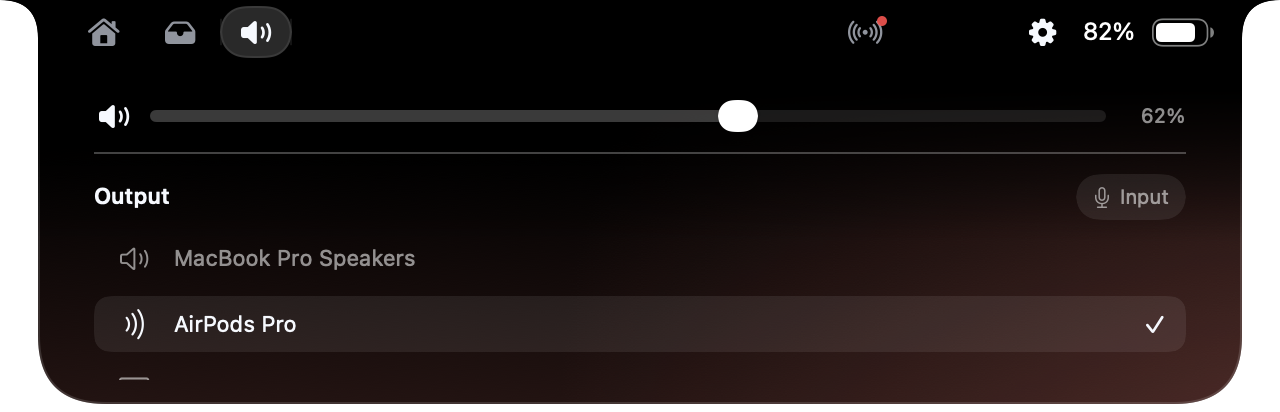
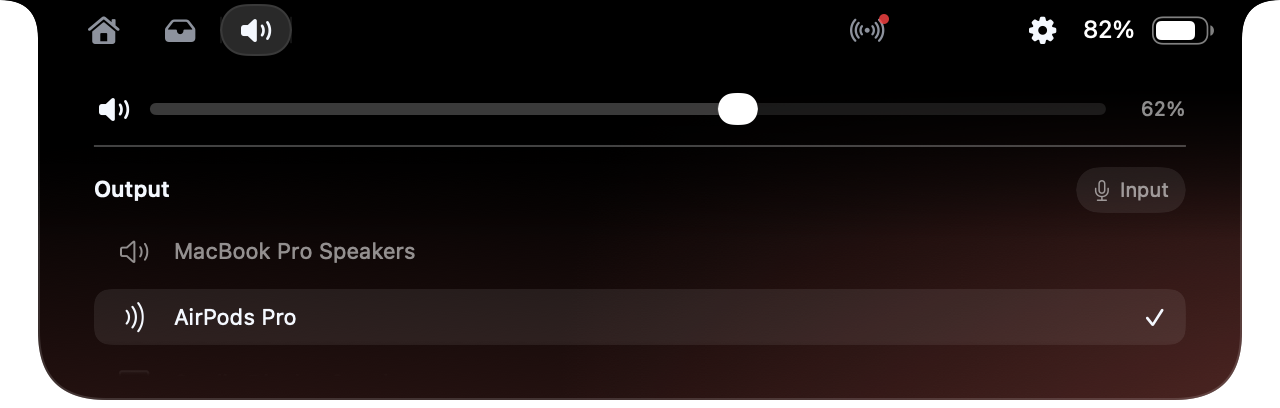
Resize the notch into the tabs section too
The notch's height now carries on from the last feature into the tab
captures as it moves into the Tabs Mac, and between the tab captures as
the selection steps along and the row turns into a column. The rim sits
over the tab captures so a cut-off one keeps its edge. Retake the audio
capture, whose list now fades out at the bottom.

diff --git a/components/landing/NotchStory.tsx b/components/landing/NotchStory.tsx
@@ -25,7 +25,7 @@ const items = [
   { id: "colour", h: 478, label: "Colour picker", src: "open-colour-picker.png", hue: 20, body: "The colour picker widget: pick off the screen, check contrast, copy.", alt: "The colour picker: a shade square, a hue slider, contrast grades on white and black, and HEX, RGB and HSL values" },
   { id: "builds", h: 468, label: "Builds", src: "open-builds.png", hue: 250, body: "The Builds widget: did the pipeline pass on GitHub or GitLab?", alt: "Builds: GitHub and GitLab runs, one running and one failed, with All, GitHub, GitLab and Local filters" },
   { id: "weather", h: 468, label: "Weather", src: "open-weather.png", hue: 205, body: "Now, and the next few hours.", alt: "The weather tab: temperature, conditions and an hourly forecast" },
-  { id: "audio", h: 412, label: "Audio", src: "open-audio.png", hue: 300, body: "Volume, the output device and the microphone, in one place.", alt: "The audio tab: volume, output devices and input" },
+  { id: "audio", h: 408, label: "Audio", src: "open-audio.png", hue: 300, body: "Volume, the output device and the microphone, in one place.", alt: "The audio tab: volume, output devices and input" },
 ] as const;
 
 const N = items.length;
@@ -86,6 +86,13 @@ const ROW_TABS = 4;
 const COL_TOP = 178;
 const COL_BOTTOM = 468;
 const tabBases = ["home", "shelf", "clipboard", "widgets"] as const;
+/* Heights of the tab captures: the four bases, then the vertical one. */
+const TAB_H = [483, 468, 468, 468, 483] as const;
+const tabsHeight = (k: number, turn: number) => {
+  const i = Math.min(3, Math.floor(k));
+  const row = lerp(TAB_H[i], TAB_H[Math.min(3, i + 1)], clamp(k - i));
+  return lerp(row, TAB_H[4], turn);
+};
 
 /* Stretches of scroll, in window heights. */
 const SEG = { intro: 0.9, wheel: (N - 1) * 0.34, hold: 0.25, move: 0.6, tabs: 0.9, turn: 0.5, climb: 0.7, rest: 0.15 };
@@ -166,6 +173,7 @@ export default function NotchStory() {
   const body = useRef<HTMLDivElement>(null);
   const rim = useRef<HTMLDivElement>(null);
   const shots = useRef<(HTMLImageElement | null)[]>([]);
+  const tabShots = useRef<(HTMLImageElement | null)[]>([]);
   const slots = useRef<Record<string, Rect>>({});
   const base = useRef(640);
   const pinned = useRef(false);
@@ -287,8 +295,9 @@ export default function NotchStory() {
     // Once the tabs are down the side, the next scroll turns the column like a wheel.
     const climb = ease(seg(t, "climb")) * (tabIcons.length - ROW_TABS);
 
-    // The notch's height follows the scroll from one feature's height to the next.
-    const dh = heightAt(p);
+    // The notch's height follows the scroll from one feature's height to the next,
+    // then into the tabs' captures, and from tab to tab.
+    const dh = t < AT.move ? heightAt(p) : lerp(items[N - 1].h, tabsHeight(k, turn), ease(move));
 
     // The notch: hero slot → (a drop) → feature slot → tabs slot.
     const { hero, feat, tabs } = slots.current;
@@ -318,11 +327,15 @@ export default function NotchStory() {
       if (ink.current) ink.current.style.opacity = String(clamp(ease(shut) * 1.7));
       if (goo.current) goo.current.style.visibility = dripping ? "visible" : "hidden";
     }
-    const near = items[clamp(Math.round(p), 0, N - 1)].h;
+    // The height of the capture that's showing, which the notch settles on.
+    const near =
+      t < AT.move + SEG.move * 0.5 ? items[clamp(Math.round(p), 0, N - 1)].h : TAB_H[turn > 0.5 ? 4 : clamp(Math.round(k), 0, 3)];
     drop.current?.style.setProperty("--dh", dh.toFixed(2));
-    shots.current.forEach((img, i) => {
-      if (img) img.style.clipPath = items[i].h > dh + 0.5 ? cutPath(base.current / IW, dh) : "";
-    });
+    const cut = (img: HTMLImageElement | null, h: number) => {
+      if (img) img.style.clipPath = h > dh + 0.5 ? cutPath(base.current / IW, dh) : "";
+    };
+    shots.current.forEach((img, i) => cut(img, items[i].h));
+    tabShots.current.forEach((img, i) => cut(img, TAB_H[i]));
 
     const vis = {
       hero: 1 - clamp(intro / 0.55),
@@ -337,9 +350,11 @@ export default function NotchStory() {
       el.style.visibility = v < 0.01 ? "hidden" : "visible";
       el.style.pointerEvents = v > 0.5 ? "auto" : "none";
     }
-    // The body under a shorter capture, and the rim along a cut-off taller one: only while resizing.
-    if (body.current) body.current.style.opacity = String(vis.feat);
-    if (rim.current) rim.current.style.opacity = String(vis.feat * clamp(Math.abs(dh - near) / 12));
+    // The body under a shorter capture, and the rim along a cut-off taller one: from the features
+    // on (the hero's notch is the one capture), the rim only while resizing.
+    const filled = clamp((intro - 0.45) / 0.55);
+    if (body.current) body.current.style.opacity = String(filled);
+    if (rim.current) rim.current.style.opacity = String(filled * clamp(Math.abs(dh - near) / 12));
     if (layers.current.hero) layers.current.hero.style.transform = `translate3d(0, ${(vis.hero - 1) * 48}px, 0)`;
     // The strip: a straight row of cards sliding sideways, the current one in the middle.
     if (track.current) track.current.style.transform = `translate3d(${(1 - vis.feat) * 48 - p * stride.current}px, 0, 0)`;
@@ -658,10 +673,21 @@ export default function NotchStory() {
                   loading={i < 2 ? "eager" : "lazy"}
                 />
               ))}
-              <div ref={rim} className="story__fill story__fill--rim" />
               <div className="story__tabsnotch" data-on={view.phase === "tabs"}>
                 {[...tabBases, "vertical"].map((b, i) => (
-                  <img key={b} className="story__img" data-on={tabOn === i} src={`/landing/story/${b}.png`} alt="" width={1280} height={b === "home" || b === "vertical" ? 483 : 468} loading="lazy" />
+                  <img
+                    key={b}
+                    ref={(el) => {
+                      tabShots.current[i] = el;
+                    }}
+                    className="story__img"
+                    data-on={tabOn === i}
+                    src={`/landing/story/${b}.png`}
+                    alt=""
+                    width={1280}
+                    height={TAB_H[i]}
+                    loading="lazy"
+                  />
                 ))}
                 <span ref={pill} className="story__pill" />
                 {tabIcons.map((n, i) => (
@@ -679,6 +705,8 @@ export default function NotchStory() {
                 ))}
                 <img ref={live} className="story__icon story__icon--live" src="/landing/story/tab-live.png" alt="" width={56} height={56} />
               </div>
+              {/* Over the tab captures too, so a cut-off one still has its edge. */}
+              <div ref={rim} className="story__fill story__fill--rim" />
               <div ref={ink} className="story__ink" />
             </div>
           </div>
